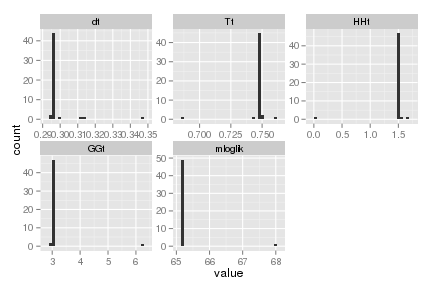
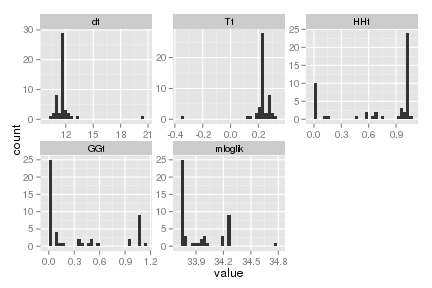
Site updated from drone

diff --git a/04/06/gpdd-explore.html b/04/06/gpdd-explore.html
@@ -348,8 +348,9 @@ df %&gt;%<span class="st"> </span><span class="kw">do</span>(<span class="kw">ka
 
 )</code></pre>
 <pre><code>Error in rbind(deparse.level, ...): numbers of columns of arguments do not match</code></pre>
-<pre><code>Timing stopped at: 1000.26 28.408 1215.648 </code></pre>
+<pre><code>Timing stopped at: 5782.322 188.486 5999.184 </code></pre>
 <pre class="sourceCode r"><code class="sourceCode r"><span class="kw">stop_cluster</span>()</code></pre>
+<hr />
 <h2 id="side-note-on-coding-strategy">Side note on coding strategy</h2>
 <p><code>dplyr</code> makes the data filtering steps fast, consise, and clear. Dealing with model outputs here is actually far less straight forward than cleaning the raw data. For instance, I have collected the output of each model fit into it’s own row. The models have different numbers of parameters, so I must add the fixed parameters to avoid rows of different length; but clearly this does not generalize to the case where the different models can have arbitrarily different parameters.</p>
 <p><a href="https://github.com/dgrtwo">David Robinson</a> has done an excellent job in starting to tackle this thorny problem in a package called <code>broom</code> with much the same elegance and care that Hadley has done with <code>dplyr</code>. David argues very persuasively that it makes more sense to summarize parameter estimates from each model fit in two columns - a column for parameter names and a column for values. He has now added support for <code>optim()</code> output to the <code>broom::tidy()</code> function, which does just that.</p>
@@ -365,7 +366,6 @@ df %&gt;%<span class="st"> </span><span class="kw">do</span>(<span class="kw">ka
 <hr />
 <p>–Note that BFGS is more problematic on some of the datasets– by catching errors we are able to run this with BFGS algorithm as well:</p>
 <pre class="sourceCode r"><code class="sourceCode r">df %&gt;%<span class="st"> </span><span class="kw">do</span>(<span class="kw">kalman</span>(., <span class="dt">method =</span> <span class="st">&quot;BFGS&quot;</span>)) -&gt;<span class="st"> </span>fits_bfgs</code></pre>
-<pre><code>Error in rbind(deparse.level, ...): numbers of columns of arguments do not match</code></pre>
 <p>We now have a nice table of parameter estimates and likelihoods by model for each data set:</p>
 <pre class="sourceCode r"><code class="sourceCode r">fits</code></pre>
 <pre><code>Error in eval(expr, envir, enclos): object &#39;fits&#39; not found</code></pre>
@@ -415,7 +415,7 @@ df %&gt;%<span class="st"> </span><span class="kw">do</span>(<span class="kw">ka
 
 <span class="kw">ggplot</span>(all) +<span class="st"> </span><span class="kw">geom_histogram</span>(<span class="kw">aes</span>(value)) +<span class="st"> </span><span class="kw">facet_wrap</span>(~parameter, <span class="dt">scales=</span><span class="st">&quot;free&quot;</span>)</code></pre>
 <figure>
-<img src="/2015/assets/figures/posts/2015-04-06-gpdd-explore/unnamed-chunk-20-1.png" />
+<img src="/2015/assets/figures/posts/2015-04-06-gpdd-explore/unnamed-chunk-19-1.png" />
 </figure>
 <pre class="sourceCode r"><code class="sourceCode r">df %&gt;%<span class="st"> </span>
 <span class="st">  </span><span class="kw">filter</span>(MainID==<span class="dv">1998</span>) %&gt;%<span class="st"> </span>
@@ -425,7 +425,7 @@ df %&gt;%<span class="st"> </span><span class="kw">do</span>(<span class="kw">ka
 
 <span class="kw">ggplot</span>(all) +<span class="st"> </span><span class="kw">geom_histogram</span>(<span class="kw">aes</span>(value)) +<span class="st"> </span><span class="kw">facet_wrap</span>(~parameter, <span class="dt">scales=</span><span class="st">&quot;free&quot;</span>)</code></pre>
 <figure>
-<img src="/2015/assets/figures/posts/2015-04-06-gpdd-explore/unnamed-chunk-21-1.png" />
+<img src="/2015/assets/figures/posts/2015-04-06-gpdd-explore/unnamed-chunk-20-1.png" />
 </figure>
 <p>Also compare also to the classic example used in most Kalman filter packages, the Nile river flows time series:</p>
 <pre class="sourceCode r"><code class="sourceCode r"><span class="kw">robust_fit</span>(<span class="st">&quot;ssg&quot;</span>,  <span class="dt">y=</span>Nile, <span class="dt">all=</span><span class="ot">TRUE</span>) %&gt;%<span class="st"> </span>
@@ -433,7 +433,7 @@ df %&gt;%<span class="st"> </span><span class="kw">do</span>(<span class="kw">ka
 <span class="st">  </span>tidyr::<span class="kw">gather</span>(parameter, value) -&gt;<span class="st"> </span>all
 <span class="kw">ggplot</span>(all) +<span class="st"> </span><span class="kw">geom_histogram</span>(<span class="kw">aes</span>(value)) +<span class="st"> </span><span class="kw">facet_wrap</span>(~parameter, <span class="dt">scales=</span><span class="st">&quot;free&quot;</span>)</code></pre>
 <figure>
-<img src="/2015/assets/figures/posts/2015-04-06-gpdd-explore/unnamed-chunk-22-1.png" />
+<img src="/2015/assets/figures/posts/2015-04-06-gpdd-explore/unnamed-chunk-21-1.png" />
 </figure>
 
     </article>
@@ -484,7 +484,7 @@ df %&gt;%<span class="st"> </span><span class="kw">do</span>(<span class="kw">ka
   
 
   <br/>
-  <p><small> <i class="icon-barcode"></i> SHA Hash: <a href="https://github.com/cboettig/2015/commit/056caaaa7f4798fdc63bf201cea62d6bbbe2b220/_posts/2015-04-06-gpdd-explore.Rmd"> 056caaaa7f4798fdc63bf201cea62d6bbbe2b220</a></small></p>
+  <p><small> <i class="icon-barcode"></i> SHA Hash: <a href="https://github.com/cboettig/2015/commit/f9a806ceb994b6e11ecdb2f4878c55234f7fb89a/_posts/2015-04-06-gpdd-explore.Rmd"> f9a806ceb994b6e11ecdb2f4878c55234f7fb89a</a></small></p>
     
   <br/>
   

diff --git a/lab-notebook.html b/lab-notebook.html
@@ -361,8 +361,9 @@ df %&gt;%<span class="st"> </span><span class="kw">do</span>(<span class="kw">ka
 
 )</code></pre>
 <pre><code>Error in rbind(deparse.level, ...): numbers of columns of arguments do not match</code></pre>
-<pre><code>Timing stopped at: 1000.26 28.408 1215.648 </code></pre>
+<pre><code>Timing stopped at: 5782.322 188.486 5999.184 </code></pre>
 <pre class="sourceCode r"><code class="sourceCode r"><span class="kw">stop_cluster</span>()</code></pre>
+<hr />
 <h2 id="side-note-on-coding-strategy">Side note on coding strategy</h2>
 <p><code>dplyr</code> makes the data filtering steps fast, consise, and clear. Dealing with model outputs here is actually far less straight forward than cleaning the raw data. For instance, I have collected the output of each model fit into it’s own row. The models have different numbers of parameters, so I must add the fixed parameters to avoid rows of different length; but clearly this does not generalize to the case where the different models can have arbitrarily different parameters.</p>
 <p><a href="https://github.com/dgrtwo">David Robinson</a> has done an excellent job in starting to tackle this thorny problem in a package called <code>broom</code> with much the same elegance and care that Hadley has done with <code>dplyr</code>. David argues very persuasively that it makes more sense to summarize parameter estimates from each model fit in two columns - a column for parameter names and a column for values. He has now added support for <code>optim()</code> output to the <code>broom::tidy()</code> function, which does just that.</p>
@@ -378,7 +379,6 @@ df %&gt;%<span class="st"> </span><span class="kw">do</span>(<span class="kw">ka
 <hr />
 <p>–Note that BFGS is more problematic on some of the datasets– by catching errors we are able to run this with BFGS algorithm as well:</p>
 <pre class="sourceCode r"><code class="sourceCode r">df %&gt;%<span class="st"> </span><span class="kw">do</span>(<span class="kw">kalman</span>(., <span class="dt">method =</span> <span class="st">&quot;BFGS&quot;</span>)) -&gt;<span class="st"> </span>fits_bfgs</code></pre>
-<pre><code>Error in rbind(deparse.level, ...): numbers of columns of arguments do not match</code></pre>
 <p>We now have a nice table of parameter estimates and likelihoods by model for each data set:</p>
 <pre class="sourceCode r"><code class="sourceCode r">fits</code></pre>
 <pre><code>Error in eval(expr, envir, enclos): object &#39;fits&#39; not found</code></pre>
@@ -428,7 +428,7 @@ df %&gt;%<span class="st"> </span><span class="kw">do</span>(<span class="kw">ka
 
 <span class="kw">ggplot</span>(all) +<span class="st"> </span><span class="kw">geom_histogram</span>(<span class="kw">aes</span>(value)) +<span class="st"> </span><span class="kw">facet_wrap</span>(~parameter, <span class="dt">scales=</span><span class="st">&quot;free&quot;</span>)</code></pre>
 <figure>
-<img src="/2015/assets/figures/posts/2015-04-06-gpdd-explore/unnamed-chunk-20-1.png" />
+<img src="/2015/assets/figures/posts/2015-04-06-gpdd-explore/unnamed-chunk-19-1.png" />
 </figure>
 <pre class="sourceCode r"><code class="sourceCode r">df %&gt;%<span class="st"> </span>
 <span class="st">  </span><span class="kw">filter</span>(MainID==<span class="dv">1998</span>) %&gt;%<span class="st"> </span>
@@ -438,7 +438,7 @@ df %&gt;%<span class="st"> </span><span class="kw">do</span>(<span class="kw">ka
 
 <span class="kw">ggplot</span>(all) +<span class="st"> </span><span class="kw">geom_histogram</span>(<span class="kw">aes</span>(value)) +<span class="st"> </span><span class="kw">facet_wrap</span>(~parameter, <span class="dt">scales=</span><span class="st">&quot;free&quot;</span>)</code></pre>
 <figure>
-<img src="/2015/assets/figures/posts/2015-04-06-gpdd-explore/unnamed-chunk-21-1.png" />
+<img src="/2015/assets/figures/posts/2015-04-06-gpdd-explore/unnamed-chunk-20-1.png" />
 </figure>
 <p>Also compare also to the classic example used in most Kalman filter packages, the Nile river flows time series:</p>
 <pre class="sourceCode r"><code class="sourceCode r"><span class="kw">robust_fit</span>(<span class="st">&quot;ssg&quot;</span>,  <span class="dt">y=</span>Nile, <span class="dt">all=</span><span class="ot">TRUE</span>) %&gt;%<span class="st"> </span>
@@ -446,7 +446,7 @@ df %&gt;%<span class="st"> </span><span class="kw">do</span>(<span class="kw">ka
 <span class="st">  </span>tidyr::<span class="kw">gather</span>(parameter, value) -&gt;<span class="st"> </span>all
 <span class="kw">ggplot</span>(all) +<span class="st"> </span><span class="kw">geom_histogram</span>(<span class="kw">aes</span>(value)) +<span class="st"> </span><span class="kw">facet_wrap</span>(~parameter, <span class="dt">scales=</span><span class="st">&quot;free&quot;</span>)</code></pre>
 <figure>
-<img src="/2015/assets/figures/posts/2015-04-06-gpdd-explore/unnamed-chunk-22-1.png" />
+<img src="/2015/assets/figures/posts/2015-04-06-gpdd-explore/unnamed-chunk-21-1.png" />
 </figure>
  
 <!-- not that raw_content depends on custom generator, 

diff --git a/tags.html b/tags.html
@@ -559,19 +559,19 @@
   </div>
   <div class="col-md-3">
     <div class='cloud'>
-      <a style='font-size: 170%' href='/tags.html#nimble'>nimble</a>
-<a style='font-size: 141%' href='/tags.html#docker'>docker</a>
-<a style='font-size: 106%' href='/tags.html#gp'>gp</a>
+      <a style='font-size: 70%' href='/tags.html#rfishbase'>rfishbase</a>
+<a style='font-size: 170%' href='/tags.html#nimble'>nimble</a>
+<a style='font-size: 106%' href='/tags.html#blog'>blog</a>
 <a style='font-size: 70%' href='/tags.html#gpdd'>gpdd</a>
-<a style='font-size: 141%' href='/tags.html#regime-shifts'>regime-shifts</a>
-<a style='font-size: 70%' href='/tags.html#rfishbase'>rfishbase</a>
 <a style='font-size: 106%' href='/tags.html#ropensci'>ropensci</a>
+<a style='font-size: 70%' href='/tags.html#reading'>reading</a>
+<a style='font-size: 141%' href='/tags.html#regime-shifts'>regime-shifts</a>
 <a style='font-size: 126%' href='/tags.html#pdg-control'>pdg-control</a>
 <a style='font-size: 162%' href='/tags.html#early-warning'>early-warning</a>
 <a style='font-size: 70%' href='/tags.html#conference'>conference</a>
+<a style='font-size: 141%' href='/tags.html#docker'>docker</a>
+<a style='font-size: 106%' href='/tags.html#gp'>gp</a>
 <a style='font-size: 70%' href='/tags.html#R'>R</a>
-<a style='font-size: 106%' href='/tags.html#blog'>blog</a>
-<a style='font-size: 70%' href='/tags.html#reading'>reading</a>
 
     </div>
     <br/>

diff --git a/01/22/sdp-Reed-controls-comparisons.html b/01/22/sdp-Reed-controls-comparisons.html
@@ -195,7 +195,7 @@ profit &lt;-<span class="st"> </span>function(x, h) <span class="kw">sapply</spa
   
 
   <br/>
-  <p><small> <i class="icon-barcode"></i> SHA Hash: <a href="https://github.com/cboettig/2015/commit/2420040a3c0dbc8017d9bd7f368827defd7b4f29/_posts/2015-01-22-sdp-Reed-controls-comparisons.Rmd"> 2420040a3c0dbc8017d9bd7f368827defd7b4f29</a></small></p>
+  <p><small> <i class="icon-barcode"></i> SHA Hash: <a href="https://github.com/cboettig/2015/commit/5047ed4001ac77513b2a2ea3dd6e5ed99d7337fe/_posts/2015-01-22-sdp-Reed-controls-comparisons.Rmd"> 5047ed4001ac77513b2a2ea3dd6e5ed99d7337fe</a></small></p>
     
   <br/>
   

diff --git a/01/22/invasives-sdp.html b/01/22/invasives-sdp.html
@@ -185,7 +185,7 @@ pdfn &lt;-<span class="st"> </span>function(P, s) <span class="kw">dlnorm</span>
   
 
   <br/>
-  <p><small> <i class="icon-barcode"></i> SHA Hash: <a href="https://github.com/cboettig/2015/commit/2420040a3c0dbc8017d9bd7f368827defd7b4f29/_posts/2015-01-22-invasives-sdp.Rmd"> 2420040a3c0dbc8017d9bd7f368827defd7b4f29</a></small></p>
+  <p><small> <i class="icon-barcode"></i> SHA Hash: <a href="https://github.com/cboettig/2015/commit/5047ed4001ac77513b2a2ea3dd6e5ed99d7337fe/_posts/2015-01-22-invasives-sdp.Rmd"> 5047ed4001ac77513b2a2ea3dd6e5ed99d7337fe</a></small></p>
     
   <br/>
   

diff --git a/02/03/dockerizing-fishbase-api.html b/02/03/dockerizing-fishbase-api.html
@@ -228,7 +228,7 @@ chown -R mysql:mysql /var/lib/mysql</code></pre>
   
 
   <br/>
-  <p><small> <i class="icon-barcode"></i> SHA Hash: <a href="https://github.com/cboettig/2015/commit/2420040a3c0dbc8017d9bd7f368827defd7b4f29/_posts/2015-02-03-dockerizing-fishbase-api.Rmd"> 2420040a3c0dbc8017d9bd7f368827defd7b4f29</a></small></p>
+  <p><small> <i class="icon-barcode"></i> SHA Hash: <a href="https://github.com/cboettig/2015/commit/5047ed4001ac77513b2a2ea3dd6e5ed99d7337fe/_posts/2015-02-03-dockerizing-fishbase-api.Rmd"> 5047ed4001ac77513b2a2ea3dd6e5ed99d7337fe</a></small></p>
     
   <br/>
   

diff --git a/01/01/notebook-maintenance-and-scaling.html b/01/01/notebook-maintenance-and-scaling.html
@@ -203,7 +203,7 @@ git gc --prune=now</code></pre>
   
 
   <br/>
-  <p><small> <i class="icon-barcode"></i> SHA Hash: <a href="https://github.com/cboettig/2015/commit/2420040a3c0dbc8017d9bd7f368827defd7b4f29/_posts/2015-01-01-notebook-maintenance-and-scaling.Rmd"> 2420040a3c0dbc8017d9bd7f368827defd7b4f29</a></small></p>
+  <p><small> <i class="icon-barcode"></i> SHA Hash: <a href="https://github.com/cboettig/2015/commit/5047ed4001ac77513b2a2ea3dd6e5ed99d7337fe/_posts/2015-01-01-notebook-maintenance-and-scaling.Rmd"> 5047ed4001ac77513b2a2ea3dd6e5ed99d7337fe</a></small></p>
     
   <br/>
   

diff --git a/02/12/dai-model.html b/02/12/dai-model.html
@@ -347,7 +347,7 @@ http://dx.doi.org/10.1126/science.1219805>.</p>
   
 
   <br/>
-  <p><small> <i class="icon-barcode"></i> SHA Hash: <a href="https://github.com/cboettig/2015/commit/2420040a3c0dbc8017d9bd7f368827defd7b4f29/_posts/2015-02-12-dai-model.Rmd"> 2420040a3c0dbc8017d9bd7f368827defd7b4f29</a></small></p>
+  <p><small> <i class="icon-barcode"></i> SHA Hash: <a href="https://github.com/cboettig/2015/commit/5047ed4001ac77513b2a2ea3dd6e5ed99d7337fe/_posts/2015-02-12-dai-model.Rmd"> 5047ed4001ac77513b2a2ea3dd6e5ed99d7337fe</a></small></p>
     
   <br/>
   

diff --git a/01/07/automated-knitr-in-jekyll.html b/01/07/automated-knitr-in-jekyll.html
@@ -197,7 +197,7 @@
   
 
   <br/>
-  <p><small> <i class="icon-barcode"></i> SHA Hash: <a href="https://github.com/cboettig/2015/commit/2420040a3c0dbc8017d9bd7f368827defd7b4f29/_posts/2015-01-07-automated-knitr-in-jekyll.Rmd"> 2420040a3c0dbc8017d9bd7f368827defd7b4f29</a></small></p>
+  <p><small> <i class="icon-barcode"></i> SHA Hash: <a href="https://github.com/cboettig/2015/commit/5047ed4001ac77513b2a2ea3dd6e5ed99d7337fe/_posts/2015-01-07-automated-knitr-in-jekyll.Rmd"> 5047ed4001ac77513b2a2ea3dd6e5ed99d7337fe</a></small></p>
     
   <br/>
   

diff --git a/01/05/notes.html b/01/05/notes.html
@@ -183,7 +183,7 @@
   
 
   <br/>
-  <p><small> <i class="icon-barcode"></i> SHA Hash: <a href="https://github.com/cboettig/2015/commit/2420040a3c0dbc8017d9bd7f368827defd7b4f29/_posts/2015-01-05-notes.Rmd"> 2420040a3c0dbc8017d9bd7f368827defd7b4f29</a></small></p>
+  <p><small> <i class="icon-barcode"></i> SHA Hash: <a href="https://github.com/cboettig/2015/commit/5047ed4001ac77513b2a2ea3dd6e5ed99d7337fe/_posts/2015-01-05-notes.Rmd"> 5047ed4001ac77513b2a2ea3dd6e5ed99d7337fe</a></small></p>
     
   <br/>
   
